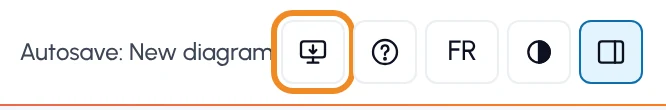
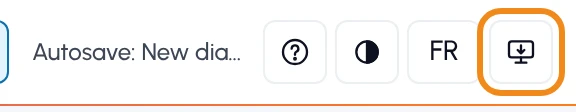
Make dictation visible and fix it in French on Chrome
Dictation asked Chrome for fr-FR. Chrome reports the on-device model as
available, hears the speech, and never returns any text. With the language
tag without a region (fr, en) it transcribes.

While listening, a red dot marks the button and a level meter shows the
microphone level and its name, in the documentation window and in the
co-pilot chat. The level is computed in the page, nothing is recorded.
Dictation now says when the microphone stays silent, or when speech is
heard but no text comes back, instead of staying silent.

Reorder the right end of the toolbar: AI co-pilot, panel toggle, autosave
status, Help, theme, language, then Install.

Changed region(s): [[0.0, 0.0818, 0.7188, 0.8727], [0.75, 0.0545, 1.0, 0.8727], [0.0, 0.9, 1.0, 0.9818]]

diff --git a/src/voice-input.js b/src/voice-input.js
@@ -7,6 +7,11 @@
 //
 // Le texte dicté s'ajoute à la zone de saisie, et rien ne part sans un clic sur Envoyer.
 // La langue de dictée suit celle de l'interface.
+//
+// Pendant l'écoute, un vu-mètre montre le niveau du micro (getUserMedia + AnalyserNode,
+// calcul fait dans la page, rien n'est enregistré ni envoyé). Il prouve que le son arrive,
+// et la dictée prévient quand le micro reste muet ou quand la parole entendue ne donne
+// aucun texte, au lieu de rester silencieuse.
 
 import { lang, T } from './i18n/lang.js'
 
@@ -17,7 +22,9 @@ const Recognition = globalThis.SpeechRecognition || globalThis.webkitSpeechRecog
 // Vrai quand le navigateur sait au moins dire si la reconnaissance locale est possible.
 export const voiceSupported = () => typeof Recognition === 'function' && typeof Recognition.available === 'function'
 
-const LANG_TAG = lang === 'fr' ? 'fr-FR' : 'en-US'
+// Langue sans région (fr, en) : avec fr-FR, Chrome 158 sous Windows annonce le modèle local
+// comme disponible, entend la parole, mais ne renvoie jamais de texte. Avec fr, il transcrit.
+const LANG_TAG = lang === 'fr' ? 'fr' : 'en'
 const OPTIONS = { langs: [LANG_TAG], processLocally: true }
 
 // Ajoute un morceau de texte dicté à la suite de ce qui est déjà écrit.
@@ -28,13 +35,102 @@ function join(before, piece) {
   return /\s$/.test(before) ? before + text : `${before} ${text}`
 }
 
+// Délais des contrôles : micro muet, puis parole entendue sans texte reconnu.
+const SILENCE_MS = 4000
+const NO_TEXT_MS = 8000
+// Niveau (valeur RMS) sous lequel le micro est tenu pour muet.
+const SILENCE_LEVEL = 0.004
+const BARS = 24
+
+// Vu-mètre : rond rouge, barres du niveau des dernières secondes, nom du micro.
+// meter : conteneur vide fourni par l'appelant. Le niveau se lit sur un flux du micro
+// ouvert à part, dans la page, et fermé à l'arrêt de la dictée.
+function createMeter(meter) {
+  meter.classList.add('voice-meter')
+  meter.hidden = true
+  meter.innerHTML = '<span class="voice-meter-dot" aria-hidden="true"></span><canvas class="voice-meter-wave" aria-hidden="true"></canvas><span class="voice-meter-label"></span>'
+  const canvas = meter.querySelector('canvas')
+  const label = meter.querySelector('.voice-meter-label')
+  let stream = null
+  let context = null
+  let timer = 0
+  let levels = []
+  let loudest = 0
+
+  function draw() {
+    const ratio = globalThis.devicePixelRatio || 1
+    const w = canvas.clientWidth || 72
+    const h = canvas.clientHeight || 18
+    if (canvas.width !== Math.round(w * ratio)) { canvas.width = Math.round(w * ratio); canvas.height = Math.round(h * ratio) }
+    const g = canvas.getContext('2d')
+    g.setTransform(ratio, 0, 0, ratio, 0, 0)
+    g.clearRect(0, 0, w, h)
+    g.fillStyle = getComputedStyle(canvas).color
+    const step = w / BARS
+    levels.forEach((level, i) => {
+      // Échelle racine : la voix parlée reste lisible sans saturer.
+      const bar = Math.max(2, Math.min(h, Math.sqrt(level) * h * 2.6))
+      g.fillRect(i * step + 1, (h - bar) / 2, Math.max(1.5, step - 2), bar)
+    })
+  }
+
+  return {
+    get loudest() { return loudest },
+    async start() {
+      levels = new Array(BARS).fill(0)
+      loudest = 0
+      label.textContent = T('Listening', 'Écoute')
+      meter.hidden = false
+      draw()
+      stream = await navigator.mediaDevices.getUserMedia({ audio: true })
+      const name = stream.getAudioTracks()[0]?.label.replace(/\s*\([0-9a-f]{4}:[0-9a-f]{4}\)$/i, '')
+      if (name) {
+        label.textContent = name
+        meter.title = T(`Microphone used: ${name}`, `Micro utilisé : ${name}`)
+      }
+      context = new AudioContext()
+      const analyser = context.createAnalyser()
+      analyser.fftSize = 1024
+      context.createMediaStreamSource(stream).connect(analyser)
+      const samples = new Float32Array(analyser.fftSize)
+      timer = setInterval(() => {
+        analyser.getFloatTimeDomainData(samples)
+        let sum = 0
+        for (const v of samples) sum += v * v
+        const level = Math.sqrt(sum / samples.length)
+        loudest = Math.max(loudest, level)
+        levels.push(level)
+        levels.shift()
+        draw()
+      }, 80)
+      return name
+    },
+    stop() {
+      clearInterval(timer)
+      timer = 0
+      stream?.getTracks().forEach((t) => t.stop())
+      stream = null
+      context?.close().catch(() => {})
+      context = null
+      meter.hidden = true
+      meter.removeAttribute('title')
+    },
+  }
+}
+
 // button : le bouton micro. input : la zone de saisie. interim : élément qui montre le
 // texte provisoire. notify(kind, text) : message dans le fil du chat. onText() : après
-// chaque ajout, pour que la zone de saisie s'ajuste à son contenu.
-export function setupVoiceInput({ button, input, interim, notify, onText }) {
+// chaque ajout, pour que la zone de saisie s'ajuste à son contenu. meter : conteneur du
+// vu-mètre, rempli ici.
+export function setupVoiceInput({ button, input, interim, notify, onText, meter }) {
   let recognition = null
   let active = false // l'utilisateur veut dicter, même entre deux redémarrages
   let preparing = false
+  const level = meter ? createMeter(meter) : null
+  let silenceTimer = 0
+  let noTextTimer = 0
+  let warnedNoText = false
+  const clearChecks = () => { clearTimeout(silenceTimer); clearTimeout(noTextTimer) }
 
   const setState = (state) => {
     button.dataset.state = state
@@ -54,6 +150,8 @@ export function setupVoiceInput({ button, input, interim, notify, onText }) {
 
   function stop() {
     active = false
+    clearChecks()
+    level?.stop()
     showInterim('')
     setState('idle')
     if (recognition) {
@@ -69,7 +167,19 @@ export function setupVoiceInput({ button, input, interim, notify, onText }) {
     r.continuous = true
     r.interimResults = true
     r.processLocally = true
+    // Parole détectée : si aucun texte ne revient, on le dit au lieu de rester muet.
+    r.onspeechstart = () => {
+      clearTimeout(noTextTimer)
+      if (warnedNoText) return
+      noTextTimer = setTimeout(() => {
+        warnedNoText = true
+        notify('error', T(
+          'Speech is heard, but the browser returns no text. Stop and start dictation again. If it persists, restart the browser: its on-device speech model may be updating.',
+          "La voix est entendue, mais le navigateur ne renvoie aucun texte. Arrêtez puis relancez la dictée. Si cela persiste, redémarrez le navigateur : son modèle de reconnaissance local est peut-être en cours de mise à jour."))
+      }, NO_TEXT_MS)
+    }
     r.onresult = (e) => {
+      clearTimeout(noTextTimer)
       let provisional = ''
       for (let i = e.resultIndex; i < e.results.length; i++) {
         const result = e.results[i]
@@ -106,6 +216,30 @@ export function setupVoiceInput({ button, input, interim, notify, onText }) {
     setState('listening')
   }
 
+  // Vu-mètre et contrôle du micro muet. Un échec ici n'arrête pas la dictée : la
+  // reconnaissance a son propre accès au micro et signale ses erreurs elle-même.
+  async function watchLevel() {
+    if (!level) return
+    let name = ''
+    try {
+      name = await level.start()
+    } catch (err) {
+      if (!active) return
+      notify('error', err?.name === 'NotAllowedError'
+        ? T('Microphone access refused. Allow it in the site settings of the browser, then try again.', "Accès au micro refusé. Autorisez-le dans les réglages du site du navigateur, puis réessayez.")
+        : T(`Microphone level unavailable: ${err?.message || err}`, `Niveau du micro indisponible : ${err?.message || err}`))
+      return
+    }
+    if (!active) { level.stop(); return }
+    silenceTimer = setTimeout(() => {
+      if (!active || level.loudest >= SILENCE_LEVEL) return
+      const mic = name ? `« ${name} »` : ''
+      notify('error', T(
+        `The microphone ${name ? `"${name}" ` : ''}picks up no sound. Check that it is not muted, or choose another microphone in the browser settings (site settings, Microphone).`,
+        `Le micro ${mic ? `${mic} ` : ''}ne capte aucun son. Vérifiez qu'il n'est pas coupé, ou choisissez un autre micro dans les réglages du navigateur (paramètres du site, Micro).`))
+    }, SILENCE_MS)
+  }
+
   async function start() {
     if (preparing) return
     preparing = true
@@ -126,7 +260,9 @@ export function setupVoiceInput({ button, input, interim, notify, onText }) {
         return
       }
       active = true
+      warnedNoText = false
       listen()
+      watchLevel()
     } catch (err) {
       notify('error', T(`Dictation unavailable: ${err?.message || err}`, `Dictée indisponible : ${err?.message || err}`))
       stop()

diff --git a/aide.html b/aide.html
@@ -458,10 +458,11 @@
           <li><span class="uib">Écrire</span>, <span class="uib">Côte à côte</span> ou <span class="uib">Aperçu</span>, au choix. Le texte s'enregistre à mesure.</li>
           <li>La barre ajoute gras, italique, titre, listes et lien (<kbd>Ctrl</kbd>+<kbd>B</kbd>, <kbd>I</kbd>, <kbd>K</kbd>).</li>
           <li><span class="uib">Modèle ▾</span> insère les titres adaptés au type : objectif, acteurs, entrées et sorties pour une activité, une ligne par branche pour une passerelle.</li>
-          <li><span class="uib"><svg class="ico" viewBox="0 0 24 24" fill="none" stroke="currentColor" stroke-width="1.8" stroke-linecap="round" stroke-linejoin="round" aria-hidden="true"><rect x="9" y="3" width="6" height="11" rx="3"/><path d="M5.5 11a6.5 6.5 0 0 0 13 0M12 17.5V21M8.5 21h7"/></svg>Dicter</span> transcrit la voix sur l'appareil, sans rien envoyer.</li>
+          <li><span class="uib"><svg class="ico" viewBox="0 0 24 24" fill="none" stroke="currentColor" stroke-width="1.8" stroke-linecap="round" stroke-linejoin="round" aria-hidden="true"><rect x="9" y="3" width="6" height="11" rx="3"/><path d="M5.5 11a6.5 6.5 0 0 0 13 0M12 17.5V21M8.5 21h7"/></svg>Dicter</span> transcrit la voix sur l'appareil, sans rien envoyer. Pendant l'écoute, un rond rouge marque le bouton et un vu-mètre montre le niveau du micro et son nom : s'il reste plat, le son n'arrive pas. Si la voix est entendue sans qu'aucun texte ne revienne, un message le dit au bout de quelques secondes.</li>
           <li><span class="uib"><span class="ico" data-icon="assistant" aria-hidden="true"></span>Rédiger avec le Co-pilote</span> propose une première version d'après le diagramme, en écrivant « à confirmer » là où il ne sait pas.</li>
         </ul>
         <figure><img src="/src/help/img/fr-documentation.webp" width="1102" height="642" alt="Fenêtre de documentation de la tâche Valider en comité, en vue Côte à côte : le Markdown à gauche avec les titres Objectif, Acteurs, Entrées, Sorties, Règles, Références, l'aperçu mis en forme à droite. En haut, la barre de mise en forme, Modèle, Dicter et Rédiger avec le Co-pilote." loading="lazy" /><figcaption>La fenêtre de documentation, en vue Côte à côte.</figcaption></figure>
+        <figure><img src="/src/help/img/fr-dictee.webp" width="782" height="55" alt="Barre de la fenêtre de documentation pendant une dictée : le bouton Dicter en orange avec un rond rouge, puis le vu-mètre du micro et son nom." loading="lazy" /><figcaption>Pendant la dictée : le rond rouge et le niveau du micro.</figcaption></figure>
         <div class="table-wrap">
           <table>
             <thead><tr><th>Vous écrivez</th><th>Vous obtenez</th></tr></thead>
@@ -489,7 +490,7 @@
 
       <section id="proprietes">
         <h2>Panneau Processus<span class="ico" data-icon="panel" aria-hidden="true"></span></h2>
-        <p>Le panneau de droite montre les propriétés de l'élément sélectionné, ou du processus quand rien n'est sélectionné. Le bouton <span class="ico" data-icon="panel" aria-hidden="true"></span>, au bout de la barre d'outils, le masque. Tirez son bord gauche pour l'élargir, double-cliquez pour revenir à la largeur d'origine.</p>
+        <p>Le panneau de droite montre les propriétés de l'élément sélectionné, ou du processus quand rien n'est sélectionné. Le bouton <span class="ico" data-icon="panel" aria-hidden="true"></span>, juste après <span class="uib"><span class="ico" data-icon="assistant" aria-hidden="true"></span>Co-pilote IA</span> dans la barre d'outils, le masque. Tirez son bord gauche pour l'élargir, double-cliquez pour revenir à la largeur d'origine.</p>
         <h3>Nom, Identifiant et Exécutable</h3>
         <p>Le groupe <span class="ui">Général</span> donne le <span class="ui">Nom</span> affiché, l'<span class="ui">Identifiant</span> technique (unique, sans espace, à ne changer que si un outil externe l'exige) et, pour le processus, la case <span class="ui">Exécutable</span> (<code>isExecutable</code>), utile seulement pour un moteur de workflow. Avec des pools, les réglages du processus sont dans le groupe Général du pool.</p>
         <h3>Les autres groupes</h3>
@@ -573,7 +574,7 @@
         <p>Écrivez comme à un collègue : qui fait quoi, dans quel ordre, avec quelles décisions.</p>
         <div class="note">« Dessine le traitement d'une note de frais. Le salarié la saisit, son manager la valide ou la refuse. Si elle dépasse 500 €, la comptabilité la valide aussi. Une fois validée, elle est remboursée sous 5 jours. Mets un couloir par acteur. »</div>
         <p>Demandez ensuite des retouches (« ajoute un rappel si le manager ne répond pas sous 3 jours »), ou faites-les vous-même. <kbd>Ctrl</kbd>+<kbd>Entrée</kbd> envoie, <span class="uib">Arrêter</span> interrompt, <span class="uib">Nouvelle discussion</span> repart de zéro sans toucher au schéma.</p>
-        <p><span class="uib"><svg class="ico" viewBox="0 0 24 24" fill="none" stroke="currentColor" stroke-width="1.8" stroke-linecap="round" stroke-linejoin="round" aria-hidden="true"><rect x="9" y="3" width="6" height="11" rx="3"/><path d="M5.5 11a6.5 6.5 0 0 0 13 0M12 17.5V21M8.5 21h7"/></svg>Dicter</span> transcrit la voix dans la zone de saisie, sur votre appareil : rien ne part avant <span class="uib">Envoyer</span>. Il faut Chrome ou Edge 139, ou Firefox 160, sur ordinateur. Ailleurs, le bouton n'apparaît pas.</p>
+        <p><span class="uib"><svg class="ico" viewBox="0 0 24 24" fill="none" stroke="currentColor" stroke-width="1.8" stroke-linecap="round" stroke-linejoin="round" aria-hidden="true"><rect x="9" y="3" width="6" height="11" rx="3"/><path d="M5.5 11a6.5 6.5 0 0 0 13 0M12 17.5V21M8.5 21h7"/></svg>Dicter</span> transcrit la voix dans la zone de saisie, sur votre appareil : rien ne part avant <span class="uib">Envoyer</span>. Il faut Chrome ou Edge 139, ou Firefox 160, sur ordinateur. Ailleurs, le bouton n'apparaît pas. Pendant l'écoute, un vu-mètre au-dessus de la saisie montre le niveau et le nom du micro. Il se calcule dans la page : rien n'est enregistré.</p>
 
         <h3>3. Partir d'un fichier</h3>
         <p>Collez, glissez ou joignez avec le trombone une photo de tableau blanc, une procédure, un tableur ou des e-mails, cinq fichiers au plus par message.</p>
@@ -1014,7 +1015,7 @@ Pour finir : vérifie le diagramme, corrige ce qui échoue et résume le process
           <li><strong>iPhone et iPad :</strong> <strong>Partager</strong>, <strong>Sur l'écran d'accueil</strong>.</li>
           <li><strong>Firefox</strong> sur ordinateur n'installe pas les PWA.</li>
         </ul>
-        <figure><img src="/src/help/img/fr-installer.webp" width="321" height="55" alt="Bout droit de la barre d'outils : le bouton Installer, avant Aide, langue, thème et panneau." loading="lazy" /><figcaption>Le bouton Installer, dans Chrome et Edge. Il disparaît une fois la PWA installée.</figcaption></figure>
+        <figure><img src="/src/help/img/fr-installer.webp" width="214" height="56" alt="Bout droit de la barre d'outils : Aide, thème, langue, puis le bouton Installer, en dernier." loading="lazy" /><figcaption>Le bouton Installer, dans Chrome et Edge. Il disparaît une fois la PWA installée.</figcaption></figure>
         <!-- online -->
         <h3 id="hors-ligne">Hors connexion (service worker)</h3>
         <p>Après une première visite, l'éditeur et l'aide s'ouvrent sans réseau. Le co-pilote, lui, en a besoin. Quand une version sort, un bandeau propose de <span class="uib">Recharger</span>, sans perdre le diagramme en cours.</p>

diff --git a/help.html b/help.html
@@ -458,10 +458,11 @@
           <li><span class="uib">Write</span>, <span class="uib">Side by side</span> or <span class="uib">Preview</span>, as you like. The text saves as you type.</li>
           <li>The toolbar adds bold, italic, heading, lists and link (<kbd>Ctrl</kbd>+<kbd>B</kbd>, <kbd>I</kbd>, <kbd>K</kbd>).</li>
           <li><span class="uib">Template ▾</span> inserts headings suited to the type: goal, actors, inputs and outputs for an activity, one line per branch for a gateway.</li>
-          <li><span class="uib"><svg class="ico" viewBox="0 0 24 24" fill="none" stroke="currentColor" stroke-width="1.8" stroke-linecap="round" stroke-linejoin="round" aria-hidden="true"><rect x="9" y="3" width="6" height="11" rx="3"/><path d="M5.5 11a6.5 6.5 0 0 0 13 0M12 17.5V21M8.5 21h7"/></svg>Dictate</span> transcribes your voice on the device, without sending anything.</li>
+          <li><span class="uib"><svg class="ico" viewBox="0 0 24 24" fill="none" stroke="currentColor" stroke-width="1.8" stroke-linecap="round" stroke-linejoin="round" aria-hidden="true"><rect x="9" y="3" width="6" height="11" rx="3"/><path d="M5.5 11a6.5 6.5 0 0 0 13 0M12 17.5V21M8.5 21h7"/></svg>Dictate</span> transcribes your voice on the device, without sending anything. While it listens, a red dot marks the button and a level meter shows the microphone level and its name: if it stays flat, no sound arrives. If your voice is heard but no text comes back, a message says so after a few seconds.</li>
           <li><span class="uib"><span class="ico" data-icon="assistant" aria-hidden="true"></span>Write with the co-pilot</span> drafts a first version from the diagram, writing "to be confirmed" where it does not know.</li>
         </ul>
         <figure><img src="/src/help/img/en-documentation.webp" width="1102" height="642" alt="Documentation window of the Approve in committee task, Side by side view: Markdown on the left with the headings Purpose, Actors, Inputs, Outputs, Rules, References, formatted preview on the right. At the top, the formatting bar, Template, Dictate and Write with the co-pilot." loading="lazy" /><figcaption>The documentation window, Side by side view.</figcaption></figure>
+        <figure><img src="/src/help/img/en-dictee.webp" width="783" height="55" alt="Toolbar of the documentation window during dictation: the Dictate button in orange with a red dot, then the microphone level meter and its name." loading="lazy" /><figcaption>While dictating: the red dot and the microphone level.</figcaption></figure>
         <div class="table-wrap">
           <table>
             <thead><tr><th>You type</th><th>You get</th></tr></thead>
@@ -489,7 +490,7 @@
 
       <section id="properties">
         <h2>Process panel<span class="ico" data-icon="panel" aria-hidden="true"></span></h2>
-        <p>The right-hand panel shows the properties of the selected element, or of the process when nothing is selected. The <span class="ico" data-icon="panel" aria-hidden="true"></span> button, at the end of the toolbar, hides it. Drag its left edge to widen it, double-click to restore the default width.</p>
+        <p>The right-hand panel shows the properties of the selected element, or of the process when nothing is selected. The <span class="ico" data-icon="panel" aria-hidden="true"></span> button, right after <span class="uib"><span class="ico" data-icon="assistant" aria-hidden="true"></span>AI co-pilot</span> in the toolbar, hides it. Drag its left edge to widen it, double-click to restore the default width.</p>
         <h3>Name, ID and Executable</h3>
         <p>The <span class="ui">General</span> group gives the displayed <span class="ui">Name</span>, the technical <span class="ui">ID</span> (unique, no spaces, to change only when an external tool requires it) and, for the process, the <span class="ui">Executable</span> box (<code>isExecutable</code>), useful only for a workflow engine. With pools, the process settings are in the pool's General group.</p>
         <h3>Other groups</h3>
@@ -573,7 +574,7 @@
         <p>Write as you would to a colleague: who does what, in what order, with which decisions.</p>
         <div class="note">"Draw the handling of an expense claim. The employee enters it, their manager approves or rejects it. Above €500, accounting approves it too. Once approved, it is refunded within 5 days. One lane per actor."</div>
         <p>Then ask for changes ("add a reminder if the manager does not answer within 3 days"), or make them yourself. <kbd>Ctrl</kbd>+<kbd>Enter</kbd> sends, <span class="uib">Stop</span> interrupts, <span class="uib">New chat</span> starts over without touching the diagram.</p>
-        <p><span class="uib"><svg class="ico" viewBox="0 0 24 24" fill="none" stroke="currentColor" stroke-width="1.8" stroke-linecap="round" stroke-linejoin="round" aria-hidden="true"><rect x="9" y="3" width="6" height="11" rx="3"/><path d="M5.5 11a6.5 6.5 0 0 0 13 0M12 17.5V21M8.5 21h7"/></svg>Dictate</span> transcribes your voice into the input box, on your device: nothing leaves before <span class="uib">Send</span>. It needs Chrome or Edge 139, or Firefox 160, on a computer. Elsewhere, the button does not appear.</p>
+        <p><span class="uib"><svg class="ico" viewBox="0 0 24 24" fill="none" stroke="currentColor" stroke-width="1.8" stroke-linecap="round" stroke-linejoin="round" aria-hidden="true"><rect x="9" y="3" width="6" height="11" rx="3"/><path d="M5.5 11a6.5 6.5 0 0 0 13 0M12 17.5V21M8.5 21h7"/></svg>Dictate</span> transcribes your voice into the input box, on your device: nothing leaves before <span class="uib">Send</span>. It needs Chrome or Edge 139, or Firefox 160, on a computer. Elsewhere, the button does not appear. While it listens, a level meter above the input box shows the level and the name of the microphone. It is computed in the page: nothing is recorded.</p>
 
         <h3>3. Start from a file</h3>
         <p>Paste, drop or attach with the paperclip a whiteboard photo, a procedure, a spreadsheet or emails, up to five files per message.</p>
@@ -1014,7 +1015,7 @@ To finish: check the diagram, fix what fails and sum up the process in five line
           <li><strong>iPhone and iPad:</strong> <strong>Share</strong>, <strong>Add to Home Screen</strong>.</li>
           <li><strong>Firefox</strong> on desktop does not install PWAs.</li>
         </ul>
-        <figure><img src="/src/help/img/en-installer.webp" width="333" height="55" alt="Right end of the toolbar: the Install button, before Help, language, theme and panel." loading="lazy" /><figcaption>The Install button, in Chrome and Edge. It disappears once the PWA is installed.</figcaption></figure>
+        <figure><img src="/src/help/img/en-installer.webp" width="288" height="56" alt="Right end of the toolbar: Help, theme, language, then the Install button, last." loading="lazy" /><figcaption>The Install button, in Chrome and Edge. It disappears once the PWA is installed.</figcaption></figure>
         <!-- online -->
         <h3 id="offline">Offline (service worker)</h3>
         <p>After a first visit, the editor and the help open without a network. The co-pilot needs one. When a new version comes out, a banner offers to <span class="uib">Reload</span>, keeping the current diagram.</p>

diff --git a/index.html b/index.html
@@ -116,12 +116,12 @@
         <button class="btn" id="btn-expert-modules" data-icon="modules" title="Turn each expert function on or off" role="menuitem">Choose modules…</button>
       </div>
     </div>
-    <span id="autosave-status">Autosave: —</span>
-    <button class="btn icon-only" id="btn-install" data-icon="install" type="button" hidden title="Install BPMN-Pilot as a PWA" aria-label="Install the PWA"></button>
-    <a class="btn icon-only" id="btn-help" data-icon="help" href="help.html" target="_blank" rel="noopener" title="Help: how to use the editor" aria-label="Help"></a>
-    <button class="btn" id="btn-lang" title="Langue : français" aria-label="Switch to French">FR</button>
-    <button class="btn icon-only" id="btn-theme" data-icon="theme" title="Theme: auto" aria-label="Theme: auto"></button>
     <button class="btn icon-only" id="btn-properties" data-icon="panel" aria-controls="properties-panel" aria-expanded="true" title="Hide the Process panel" aria-label="Hide the Process panel"></button>
+    <span id="autosave-status">Autosave: —</span>
+    <a class="btn icon-only" id="btn-help" data-icon="help" href="help.html" target="_blank" rel="noopener" title="Help: how to use the editor" aria-label="Help"></a>
+    <button class="btn icon-only" id="btn-theme" data-icon="theme" title="Theme: auto" aria-label="Theme: auto"></button>
+    <button class="btn" id="btn-lang" title="Langue : français" aria-label="Switch to French">FR</button>
+    <button class="btn icon-only" id="btn-install" data-icon="install" type="button" hidden title="Install BPMN-Pilot as a PWA" aria-label="Install the PWA"></button>
   </div>
   <div id="main">
     <div id="canvas">

diff --git a/src/chat-panel.js b/src/chat-panel.js
@@ -156,6 +156,7 @@ export function createChatPanel({ mode, chatUrl, bridge, tools }) {
     <div id="chat-log" aria-live="polite"></div>
     <div id="chat-attachments" hidden></div>
     <div id="chat-destination" hidden></div>
+    <div id="chat-voice-meter" hidden></div>
     <div id="chat-voice-interim" aria-live="polite" hidden></div>
     <form id="chat-form">
       <div class="chat-input-wrap">
@@ -204,12 +205,14 @@ export function createChatPanel({ mode, chatUrl, bridge, tools }) {
   toggleModel.hidden = true
   toggle.append(toggleModel)
   // À droite de la barre, juste après le badge MCP (version docker), ou en tête
-  // du groupe de droite quand il n'y a pas de badge (version en ligne).
+  // du groupe de droite quand il n'y a pas de badge (version en ligne). Le bouton
+  // du panneau Processus le suit, puis l'état de la sauvegarde.
   const badge = document.getElementById('mcp-status')
   const autosave = document.getElementById('autosave-status')
+  const anchor = document.getElementById('btn-properties') || autosave
   if (badge) badge.after(toggle)
-  else if (autosave) {
-    autosave.before(toggle)
+  else if (anchor) {
+    anchor.before(toggle)
     toggle.classList.add('push-right')
     autosave.style.marginLeft = '8px'
   } else document.getElementById('btn-expert').after(toggle)
@@ -674,6 +677,7 @@ export function createChatPanel({ mode, chatUrl, bridge, tools }) {
     interim: panel.querySelector('#chat-voice-interim'),
     notify: add,
     onText: fitInput,
+    meter: panel.querySelector('#chat-voice-meter'),
   })
   if (micButton) panel.classList.add('has-mic')
 

diff --git a/src/theme/leylines.css b/src/theme/leylines.css
@@ -1803,6 +1803,16 @@ dialog .dlg-close:focus-visible,
   50% { box-shadow: 0 0 0 5px rgba(217, 48, 37, 0); }
 }
 @media (prefers-reduced-motion: reduce) { #chat-panel #chat-mic[data-state="listening"] { animation: none; } }
+#chat-panel #chat-voice-meter { padding: var(--space-1) var(--space-3); border-top: 1px solid var(--line); }
+
+/* Vu-mètre de la dictée (src/voice-input.js) : rond rouge, niveau du micro, nom du micro. */
+.voice-meter { display: inline-flex; align-items: center; gap: 6px; min-width: 0; font-size: 12px; color: var(--ink-muted); }
+.voice-meter[hidden] { display: none; }
+.voice-meter-dot { flex: none; width: 9px; height: 9px; border-radius: 50%; background: #E5251B; animation: voice-dot 1.2s ease-in-out infinite; }
+.voice-meter-wave { flex: none; width: 72px; height: 18px; color: var(--accent); }
+.voice-meter-label { min-width: 0; max-width: 180px; overflow: hidden; text-overflow: ellipsis; white-space: nowrap; }
+@keyframes voice-dot { 50% { opacity: .35; } }
+@media (prefers-reduced-motion: reduce) { .voice-meter-dot, .doc-toolbar .doc-mic[data-state="listening"]::after { animation: none; } }
 #chat-panel #chat-voice-interim {
   padding: var(--space-1) var(--space-3); border-top: 1px solid var(--line);
   color: var(--ink-muted); font-style: italic; font-size: 13px;

diff --git a/src/doc/doc.css b/src/doc/doc.css
@@ -49,6 +49,15 @@
 .doc-toolbar .doc-mic[data-state="listening"] { background: #D9620A; color: #FFFFFF; border-color: #D9620A; }
 .doc-toolbar .doc-mic[data-state="listening"]:hover { background: #B04E08; border-color: #B04E08; color: #FFFFFF; }
 .doc-toolbar .doc-mic[data-state="preparing"] { opacity: 0.7; }
+/* Rond rouge pendant l'enregistrement, comme sur un enregistreur. */
+.doc-toolbar .doc-mic { position: relative; }
+.doc-toolbar .doc-mic[data-state="listening"]::after {
+  content: ""; position: absolute; top: -4px; right: -4px; width: 10px; height: 10px; border-radius: 50%;
+  background: #E5251B; box-shadow: 0 0 0 2px var(--surface-raised); animation: voice-dot 1.2s ease-in-out infinite;
+}
+.doc-toolbar .doc-voice-meter { margin-left: 2px; }
+/* Le rond rouge est déjà sur le bouton. */
+.doc-toolbar .doc-voice-meter .voice-meter-dot { display: none; }
 .doc-sep { width: 1px; height: 22px; background: var(--line); margin: 0 4px; }
 /* Même trait leyline que le bouton du Co-pilote IA. */
 .doc-toolbar .doc-ai {

diff --git a/src/doc/doc-editor.js b/src/doc/doc-editor.js
@@ -128,6 +128,7 @@ export function setupDocEditor(modeler) {
         <div class="doc-template-menu" role="menu" hidden></div>
       </span>
       <button type="button" class="btn doc-mic" hidden>${MIC_ICON}<span>${T('Dictate', 'Dicter')}</span></button>
+      <span class="doc-voice-meter" aria-live="polite" hidden></span>
       <span class="doc-sep" aria-hidden="true"></span>
       <button type="button" class="btn doc-ai" data-icon="assistant">${T('Write with the co-pilot', 'Rédiger avec le Co-pilote')}</button>`
     body.before(bar)
@@ -313,7 +314,7 @@ export function setupDocEditor(modeler) {
           textarea.setSelectionRange(before.length, before.length)
         },
       }
-      voice = setupVoiceInput({ button: mic, input: cursorInput, interim, notify: say, onText: commit })
+      voice = setupVoiceInput({ button: mic, input: cursorInput, interim, notify: say, onText: commit, meter: bar.querySelector('.doc-voice-meter') })
     }
 
     // ── Co-pilote ──

diff --git a/src/mcp-bridge.js b/src/mcp-bridge.js
@@ -136,9 +136,10 @@ function createBadge() {
   badge.style.cssText =
     'font-size:11px;white-space:nowrap;margin-left:auto;padding:2px 8px;border-radius:10px;border:1px solid #0f3460'
   const autosave = document.getElementById('autosave-status')
-  if (autosave) {
-    autosave.style.marginLeft = '8px'
-    autosave.before(badge)
+  const anchor = document.getElementById('btn-properties') || autosave
+  if (anchor) {
+    if (autosave) autosave.style.marginLeft = '8px'
+    anchor.before(badge)
   } else {
     document.getElementById('toolbar')?.append(badge)
   }
